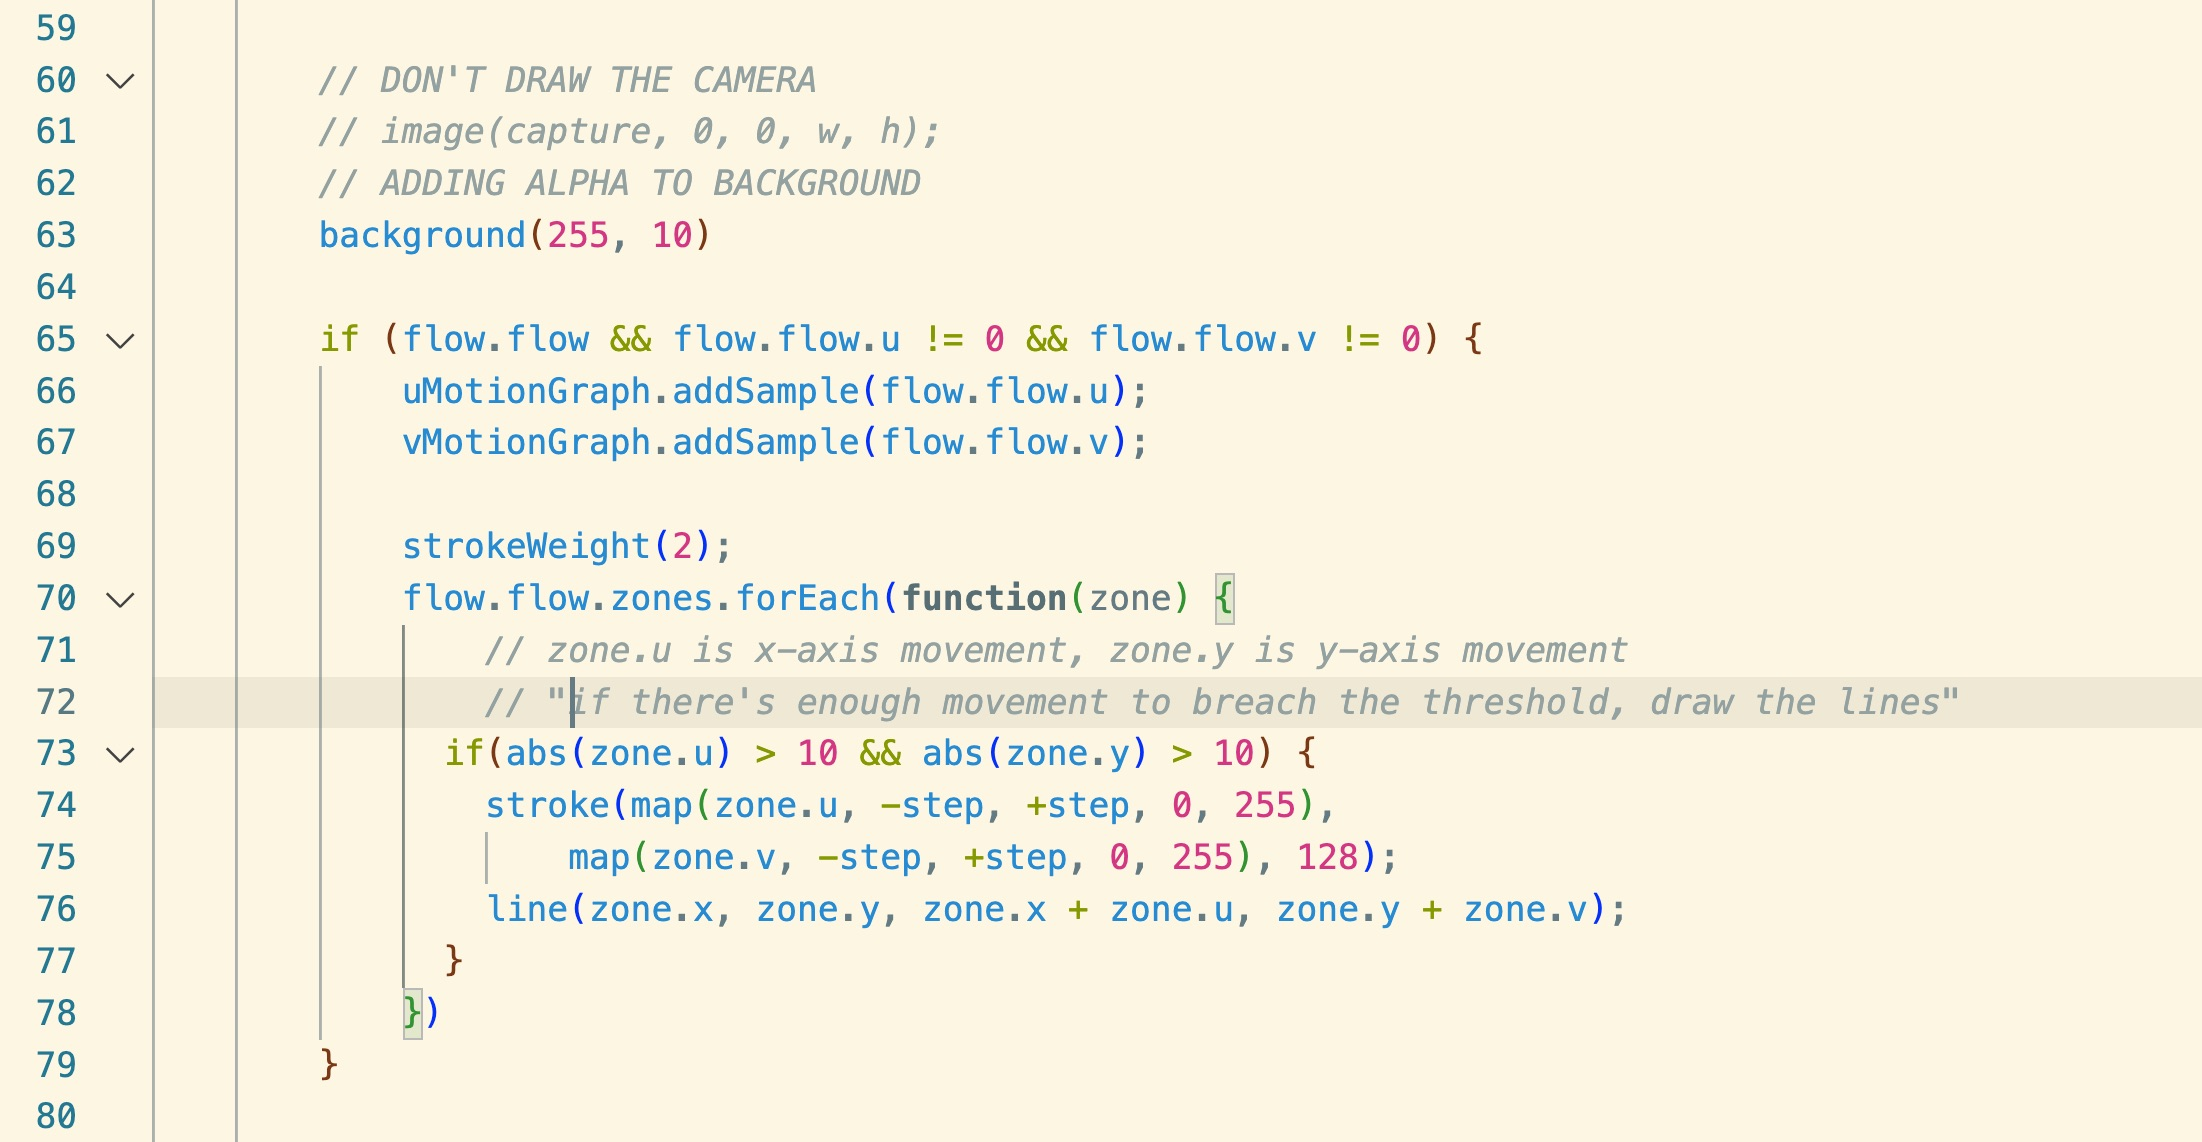
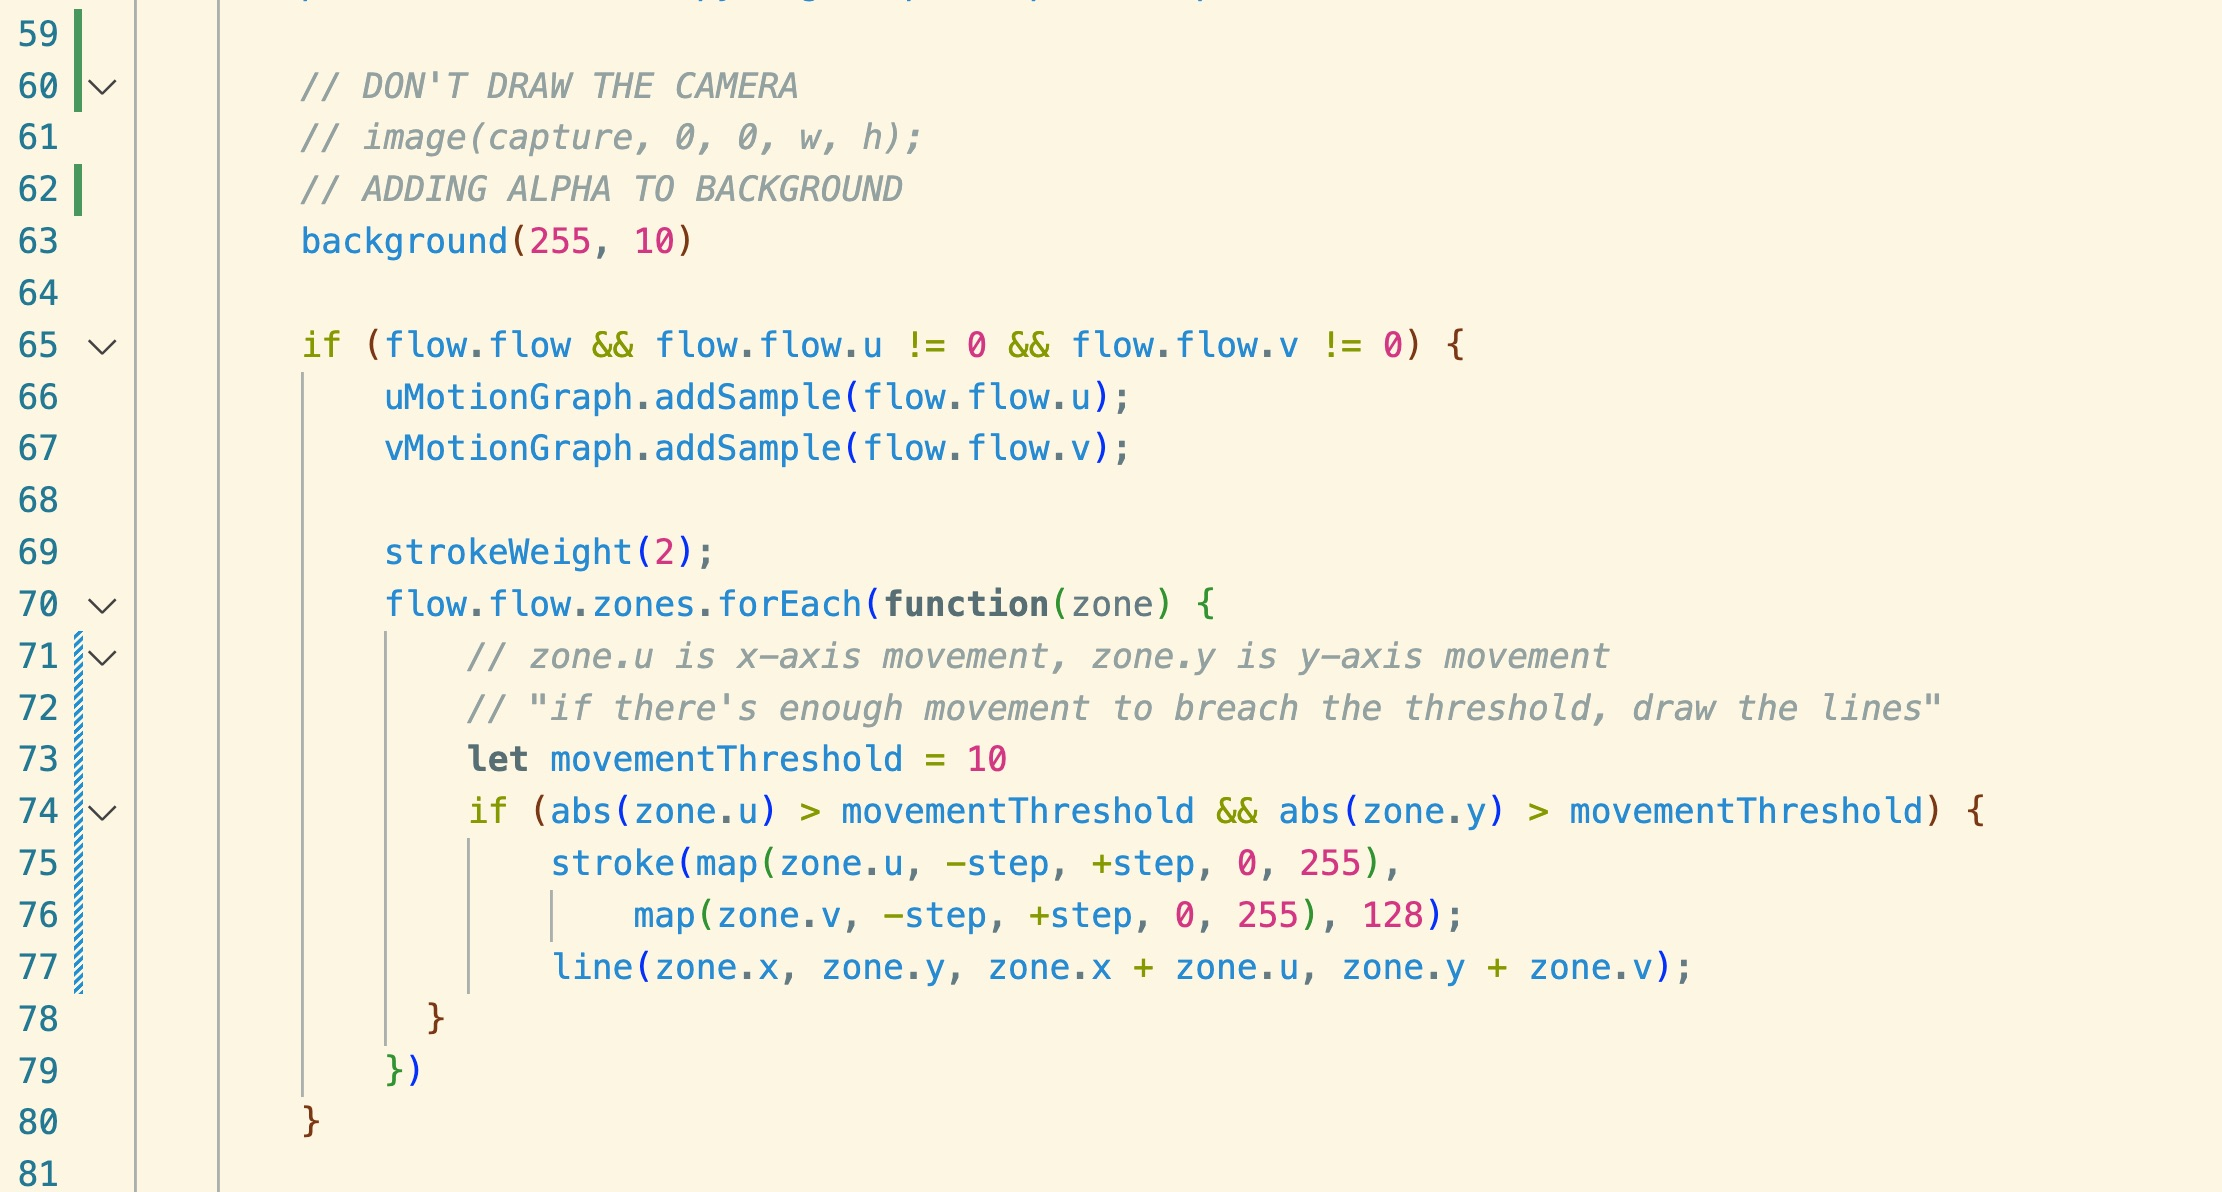
updated cv optical flow example

diff --git a/modules/module-5/code/cv-optical-flow-drawing/sketch.js b/modules/module-5/code/cv-optical-flow-drawing/sketch.js
@@ -56,7 +56,10 @@ function draw() {
             flow.calculate(previousPixels, capture.pixels, capture.width, capture.height);
         }
         previousPixels = copyImage(capture.pixels, previousPixels);
+        
+        // DON'T DRAW THE CAMERA
         // image(capture, 0, 0, w, h);
+        // ADDING ALPHA TO BACKGROUND
         background(255, 10)
 
         if (flow.flow && flow.flow.u != 0 && flow.flow.v != 0) {
@@ -65,10 +68,13 @@ function draw() {
 
             strokeWeight(2);
             flow.flow.zones.forEach(function(zone) {
-              if(abs(zone.u) > 10 && abs(zone.y) > 10) {
-                stroke(map(zone.u, -step, +step, 0, 255),
-                    map(zone.v, -step, +step, 0, 255), 128);
-                line(zone.x, zone.y, zone.x + zone.u, zone.y + zone.v);
+                // zone.u is x-axis movement, zone.y is y-axis movement
+                // "if there's enough movement to breach the threshold, draw the lines"
+                let movementThreshold = 10
+                if (abs(zone.u) > movementThreshold && abs(zone.y) > movementThreshold) {
+                    stroke(map(zone.u, -step, +step, 0, 255),
+                        map(zone.v, -step, +step, 0, 255), 128);
+                    line(zone.x, zone.y, zone.x + zone.u, zone.y + zone.v);
               } 
             })
         }
